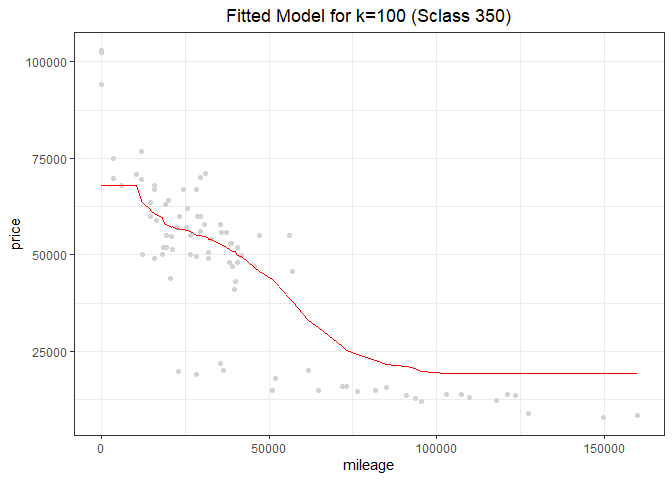
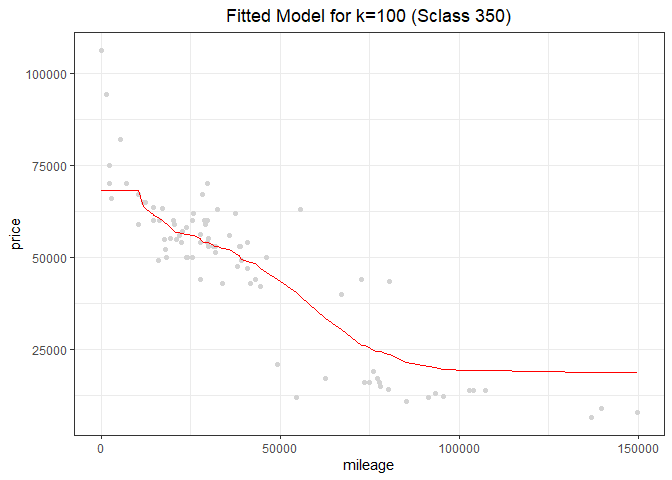
almost done

diff --git a/hw1.md b/hw1.md
@@ -21,39 +21,113 @@ data.
 
 Then we ran K-nearest-neighbors for k, starting from k=3 to higher
 value. We faced an error when k=2, so the possible minimum value of k
-was 3. The fitted model for k=3 is as below, and RSME is 10984.7.
+was 3. The fitted model for k=3 is as below, and RSME is 10880.2
 
 ![](hw1_files/figure-markdown_github/1.2.4-1.png)
 
-    ## [1] 10332.48
+    ## [1] 9339.727
 
-When k=20, The fitted model is as below. RSME is 9636.9, which is
+When k=20, The fitted model is as below. RSME is 9238.5, which is
 smaller than RSME when k=3.
 
 ![](hw1_files/figure-markdown_github/1.2.5-1.png)
 
-    ## [1] 10861.9
+    ## [1] 8559.556
 
 Now, the fitted model for k=100 below shows us the fact that the graph
-gets smoother as k goes bigger. But RSME when k=100 is 11988.9, which is
+gets smoother as k goes bigger. But RSME when k=100 is 10483.9, which is
 bigger than that of when k=20. So it is probable that the optimal k that
 minimizes RSME will be somewhere between k=3 and k=100.
 
 ![](hw1_files/figure-markdown_github/1.2.6-1.png)
 
-    ## [1] 12683.42
+    ## [1] 9929.078
 
 In order to find the optimal k, we plotted k versus RSME for every k.
-The graph below shows that RSME is minimized to 9487.9 when k equals 10.
+The graph below shows that RSME is minimized to 9134.4 when k equals to
+18.  
+The optimal value of k can vary whenever we run the regression because
+samples are randomly chosen.
 
 ![](hw1_files/figure-markdown_github/1.2.7-1.png)
 
-    ## [1] 10
+    ## [1] 5
 
-    ## [1] 10148.6
+    ## [1] 8287.092
 
-![](hw1_files/figure-markdown_github/1.2.7-1.png)
+The graph below shows the plot of the fitted value when k is the optimal
+value.
 
-    ## [1] 10
+![](hw1_files/figure-markdown_github/1.2.8-1.png) \#\#\# Sclass 65 AMG
+Now, we’ll take the same step to find out the optimal k for subgroup
+sclass 65 AMG. The plot below also shows us a negative relation between
+price and mileage.
 
-    ## [1] 10148.6
+![](hw1_files/figure-markdown_github/1.2.9-1.png)
+
+As we did on the Sclass 350 case, the Sclass 65 AMG data is also
+splitted into two groups- a training set and a test set. The training
+set accounts for 80% of whole data.
+
+We’ll start with k=3, and run K-nearest-neighbors. The fitted model for
+k=3 is as below, and RSME is 21822.8
+
+![](hw1_files/figure-markdown_github/1.2.11-1.png)
+
+    ## [1] 23561.11
+
+When k=20, The fitted model is as below. RSME is 22546.5, which is
+slightly bigger than RSME when k=3.
+
+![](hw1_files/figure-markdown_github/1.2.12-1.png)
+
+    ## [1] 19516.63
+
+Now, the fitted model for k=100 below shows us the fact that the graph
+gets smoother as k goes bigger. But RSME when k=100 is 40928.0, which is
+much bigger than that of when k=20. So the optimal k that minimizes RSME
+must be much smaller than 100.
+
+![](hw1_files/figure-markdown_github/1.2.13-1.png)
+
+    ## [1] 34164.83
+
+In order to find the optimal k, we plotted k versus RSME for every k
+value. The graph below shows that RSME is minimized to 21037.7 when k
+equals to 4.
+
+![](hw1_files/figure-markdown_github/1.2.14-1.png)
+
+    ## [1] 9
+
+    ## [1] 18134.53
+
+The graph below shows the plot of fitted model when k is optimally
+chosen.
+
+![](hw1_files/figure-markdown_github/1.2.15-1.png)
+
+In conclusion, the optimal k value was larger in subgroup Sclass 350
+than sclass 65 AMG.  
+There are more samples in 350 than in 65 AMG. So higher k can be
+required to get more precise prediction. Besides, samples in 350 are
+more dispersed than those in 65 AMG. The large variance of sample can be
+one factor which requires high value of k.
+
+``` r
+count(sclass_350)
+```
+
+    ## # A tibble: 1 x 1
+    ##       n
+    ##   <int>
+    ## 1   416
+
+``` r
+count(sclass_65AMG)
+```
+
+    ## # A tibble: 1 x 1
+    ##       n
+    ##   <int>
+    ## 1   292
